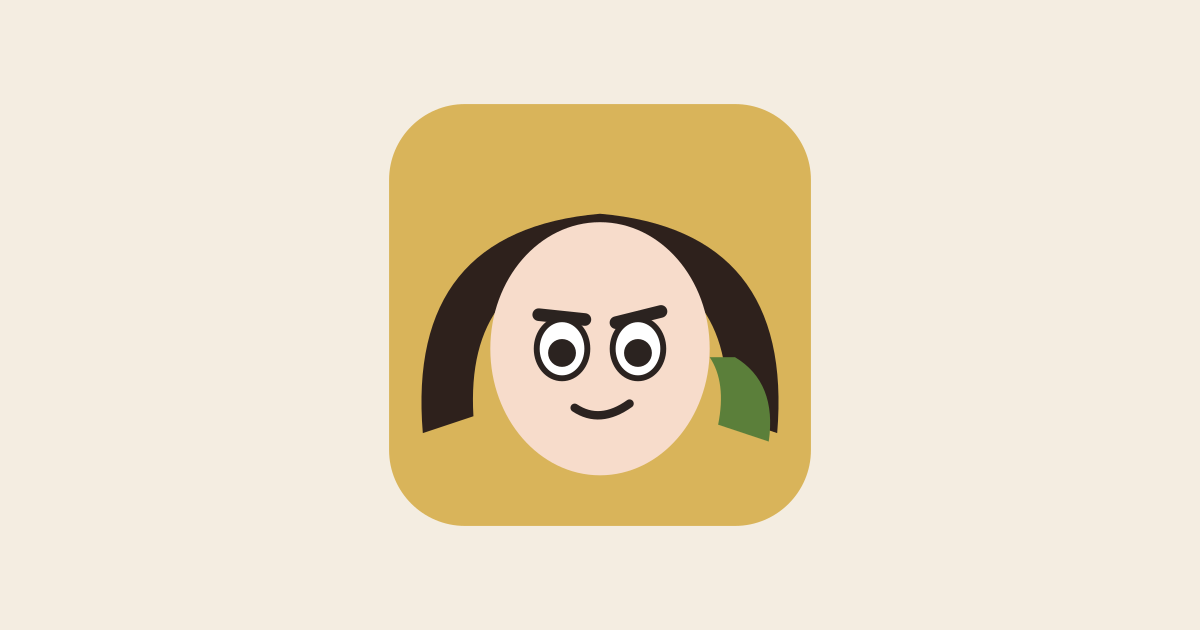
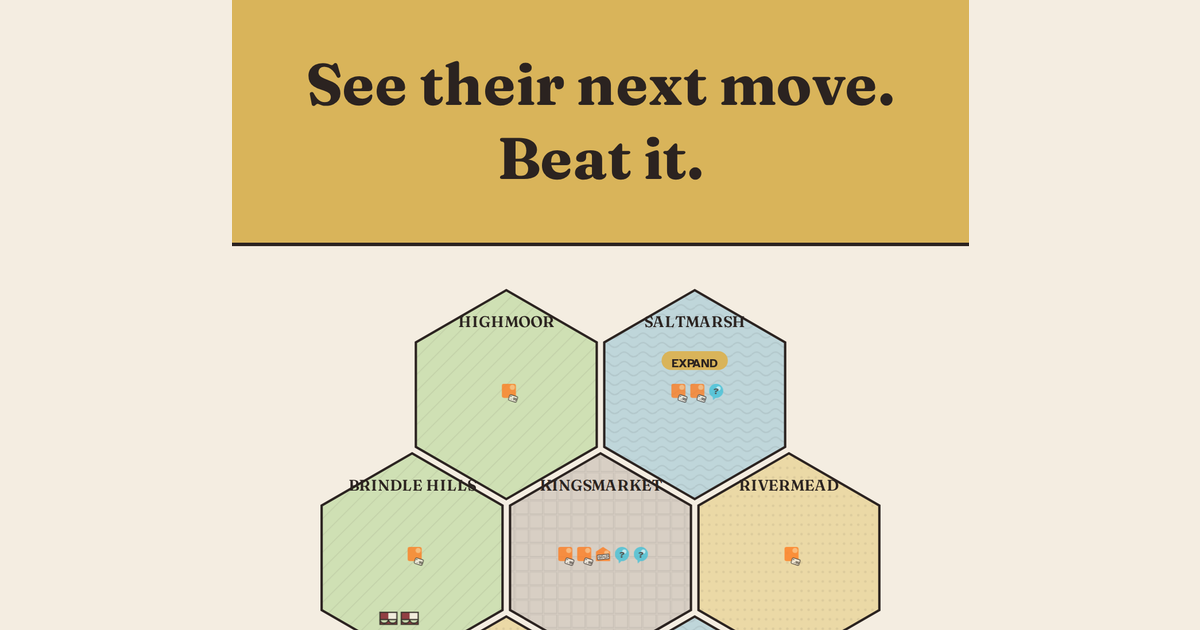
Replace the placeholder social-preview image with a real screenshot composite
STYLE.md 13 asks for the social preview to match "the same style as
screenshot 1" (mid-game map with the enemy plan visible). The prior
session shipped an icon-on-paper placeholder because that screenshot
didn't exist yet; store/screenshots/1-enemy-plan.png does now. Crop
its banner+map region, scale to fit 1200x630, and letterbox onto the
app's own paper background.

Claude-Session: https://claude.ai/code/session_0159jFFXd4u9xNUtgUA8hrJU

diff --git a/DECISIONS.md b/DECISIONS.md
@@ -816,3 +816,7 @@ Format: date, decision, reason.
   Implementation: `Game.tsx` gained a `showRulesFromTutorial` boolean state and an early `return <RulesReference onClose={() => setShowRulesFromTutorial(false)} />` placed alongside the existing `state.result`/`pendingMidScene` early returns (same pattern, same position — after all hooks have already run). Rendering `RulesReference` as a full early-return replacement rather than stacking it as an overlay sheet (like Farm/Market/Plan/Log) avoids two simultaneous `<main>` landmarks, since `RulesReference` is itself a standalone `<main className="rules-reference">`, not a modal-shaped component. Because `showRulesFromTutorial` is local component state and `Game` itself never unmounts, closing the reference returns to the exact same in-progress game and tutorial step, not a fresh chapter start. The "?" button lives inside the prompt's own `<p>`, styled with a new `.tutorial-rules-link` class using `--ink-on-fixed-fill` (matching `.tutorial-prompt`'s own comment about the `--wheat` fixed-fill/fixed-text pairing, since an adaptive `--ink` would break contrast on `--wheat` in dark mode — the same class of bug a much earlier session found and fixed for the SQUEEZE/EXPAND map badges).
   New e2e test in `e2e/tutorial.spec.ts` (opens the reference from chapter 1's first prompt, confirms the tutorial prompt is hidden while it's open, closes it, confirms the exact same prompt/gating is back). Hit the known stale-preview-server gotcha (`playwright.config.ts`'s `webServer` reuses an already-running server across `npx playwright test` invocations in the same session — logged by a prior session, 2026-09-26 ~06:15 UTC entry above) while first running this test: `lsof -ti:4173 | xargs kill` before the next run fixed a spurious "button not found" 30s timeout that had nothing to do with the actual code.
   `npm run check` (278 tests, unchanged) and `npm run gates` (gates 1-7; 58 e2e tests, up from 56; axe clean including forced dark theme on the game screen, which is where `.tutorial-rules-link` actually renders; Lighthouse 99/100) both re-run clean end to end, no regressions.
+- 2026-09-26 (~08:51-09:15 UTC, new session): Re-checked both standing blockers once each, as usual — identical results (throwaway-branch dry-run push to `main` via a fresh `main-test-check` branch off `origin/main`, denied again with the identical "Production Deploy" classifier message before reaching GitHub; `OWNER.md`'s Apple Team ID still `PASTE-TEAM-ID`, so `ios.yml` wasn't re-dispatched). `npm ci` + `npm run check` (278 tests) confirmed clean on the unchanged `build` HEAD first. Rather than re-attempt either of the two large, explicitly-deferred redesigns (SPEC 10.2's targeting-mode Confirm button, SPEC 10.3's desktop no-scroll gap — both still logged above as needing a dedicated, less-interrupted session), continued the recent sessions' pattern of finding small, bounded, literal SPEC gaps:
+  1. **SPEC 10.2's menu button lived in the wrong panel.** The spec's top-bar bullet lists it explicitly ("round x/10, Public Trust, Lost Land remaining, Rift and a menu button"), but `Game.tsx` rendered `<button onClick={onExit}>Menu</button>` in the bottom `.controls` footer, grouped with Undo/Farm/Market/Plan/Log instead. Moved it into `<header className="topbar">` as the fifth item. Checked for e2e coupling to its old position first (`grep -rl Menu e2e/`, no hits) — safe to move. Kept STYLE.md 12's 44x44 tap-target minimum (the global `button` rule already gives 44px `min-height`) but added a `.topbar button` rule trimming horizontal padding so a real button doesn't visually dominate an otherwise compact, text-only bar, plus `flex-wrap`/`align-items: center` on `.topbar` itself as a safety margin at the 360px minimum width (SPEC 10.2: "must work from 360x640 to 430x932"). Verified with a throwaway Playwright test (written, run, screenshotted, then deleted — not part of the committed suite) at exactly 360x640: the topbar wraps to two rows, `scrollWidth === clientWidth` (no horizontal overflow), and the screenshot reads cleanly. `npm run check` (278 tests, unchanged) and `npm run gates` (gates 1-7, 58 e2e tests, all passing, unchanged counts) both re-run clean — no test asserted the button's DOM position, so nothing else needed updating.
+  2. **The social-preview image's real version, left open since the icon/PWA session (2026-09-25 entry above).** That session shipped an icon-on-paper placeholder because STYLE.md 13's "the same style as screenshot 1" needs a real in-game screenshot, which didn't exist at the time. `store/screenshots/1-enemy-plan.png` (1284x2778: the caption banner + the mid-game map + Mara's action panel) now exists, built by a later M6 session's `store-screenshots.spec.ts`. Replaced the placeholder: `npm install sharp --no-save` (same one-off-tool precedent, not added to `package.json`), extracted the source screenshot's top 1284x1098 (banner plus the top two rows of the hex-flower map, stopping before the farm/actions panel — visually inspected first via the Read tool to pick the crop line), scaled it to fit 630px tall (scale factor 630/1098 ≈ 0.574, giving 737x630), and composited it centered on a 1200x630 canvas filled with `--paper` (`#F4EDE1`) rather than a hard crop/stretch — the source is portrait and the target is wide landscape, so letterboxing with the app's own paper background reads as intentional rather than a stretched or cropped-off image. Verified visually (both the intermediate crop math and the final composite) — the Fraunces caption banner and enough of the map to recognise the hex flower both read cleanly at 1200x630. `og:image` in `index.html` already pointed at the right path, unchanged. Not turned into a committed generator script (unlike gate 7's Lighthouse tooling): this is a one-off image edit against a screenshot that Playwright itself regenerates, not a build-time or CI-time step.
+  Both fixes are small and bounded, deliberately not touching the release path (still blocked, see Blocked) or either of the two large deferred redesigns. `npm run check` and `npm run gates` both re-run clean after each change, committed and pushed separately to `build`.

diff --git a/PROGRESS.md b/PROGRESS.md
@@ -1,7 +1,44 @@
 # Progress
 
 ## Current milestone
-This session (2026-09-26, ~07:52-08:22 UTC): net result — both standing blockers unchanged (11th+
+This session (2026-09-26, starting ~08:51 UTC): both standing blockers re-checked once, unchanged (12th+
+consecutive identical denial/placeholder — see Blocked). Two real, bounded fixes made and pushed:
+- **SPEC 10.2's menu button was in the footer, not the top bar.** The spec lists it as part of the fixed
+  top bar ("round x/10, Public Trust, Lost Land remaining, Rift and a menu button"), but `Game.tsx` rendered
+  it in the bottom `.controls` footer instead, alongside Undo/Farm/Market/Plan/Log. Moved the `<button
+  onClick={onExit}>Menu</button>` into `<header className="topbar">`, right after the Rift span. Kept the
+  global 44x44 tap-target minimum (STYLE.md 12: "every tap target is at least 44x44") via a `.topbar button`
+  rule that only trims the horizontal padding, and added `flex-wrap`/`align-items: center` to `.topbar` so
+  the now-5-item row still reads cleanly at the 360px minimum width (SPEC 10.2: "must work from 360x640 to
+  430x932") — verified with a throwaway Playwright screenshot at 360x640 (not part of the committed suite;
+  deleted after use), which showed the row wrapping to two lines with no overflow (`scrollWidth ===
+  clientWidth`, no horizontal scroll). No e2e test referenced the button by DOM position, so nothing else
+  needed updating. `npm run check` (278 tests, unchanged) and `npm run gates` (gates 1-7, 58 e2e tests,
+  unchanged counts, all passing) both re-run clean.
+- **The final social-preview image, left open since the icon/PWA session (see DECISIONS.md 2026-09-25):**
+  that session shipped an interim icon-on-paper placeholder because "the same style as screenshot 1"
+  (STYLE.md 13) needs a real in-game screenshot, and `store/screenshots/1-enemy-plan.png` didn't exist yet.
+  It exists now (a later M6 session built the store-screenshots Playwright project). Replaced the
+  placeholder: `npm install sharp --no-save` (same one-off-tool precedent as the icon session, not a
+  project dependency), crop the existing 1284x2778 screenshot's top 1284x1098 (the caption banner plus the
+  top two rows of the hex-flower map, before the farm/actions panel), scale to fit 630px tall, and
+  center it on a 1200x630 canvas filled with `--paper` (`#F4EDE1`) — landscape letterboxing rather than a
+  hard crop, since the source screenshot is portrait and 1200x630 is not. Verified visually: the Fraunces
+  caption banner and a legible chunk of the map both read cleanly, matching STYLE.md 13's "same style as
+  screenshot 1" more literally than the old icon-only placeholder. `og:image` in `index.html` already
+  pointed at `/public/social-preview.png` unchanged. Not scripted/committed as a repeatable generator (a
+  one-off image edit, like the icon session's rasterization), since the source screenshot itself is
+  regenerated by `store-screenshots.spec.ts`, not this step.
+
+Both changes are small, bounded, and outside the release-path blockers, following the pattern several
+recent sessions have used while `main run release`/`ios.yml`/App Store submission stay stuck on owner-side
+setup. Continued in the same vein as the previous session's audit (below) rather than attempting either of
+the two logged large redesigns (SPEC 10.2's targeting-mode Confirm button, SPEC 10.3's desktop no-scroll
+gap) — both still need a dedicated, less-interrupted session, unchanged this session.
+
+---
+
+Previous session (2026-09-26, ~07:52-08:22 UTC): net result — both standing blockers unchanged (11th+
 consecutive re-check with identical denials), and 4 real, previously-uncaught SPEC gaps found and fixed
 with new test coverage each time: SPEC 10.5's tooltip surface completed (action buttons, map legend), SPEC
 4.8's missing end-screen story line and cards/schemes stats, SPEC 2's missing www redirect, and SPEC 8.1's
@@ -701,8 +738,9 @@ thing to do is `npm run release`, since gates/e2e/balance are all in a shippable
   the icon drawing centred, and nothing else"). Added `public/social-preview.png` (1200x630, icon-on-paper,
   an interim placeholder — the real one is "the same style as screenshot 1," which needs in-game screenshots
   that don't exist yet) wired via `og:image`/`og:title`/`og:description` in `index.html`. Verified visually;
-  `npm run check` unaffected. Still open: the real 5 App Store screenshots and the final social-preview
-  image (both need in-game screenshots, part of M6's visual-review/store-assets work).
+  `npm run check` unaffected. Both since closed: the real 5 App Store screenshots (a later M6 session) and
+  the final social-preview image (2026-09-26, Current milestone above), once `store/screenshots/1-enemy-
+  plan.png` existed to build it from.
 - [x] Haptics (SPEC 2/10.1/11.1, STYLE.md 11 "a light tap when placing, a medium tap on liberation, and a
   warning buzz on Lost Land and loss"): `src/platform/haptics.ts`'s `playHapticsFor(action, newEvents,
   result)`, called from `Game.tsx`'s `advance()` right after every `applyAction`. Gated on
